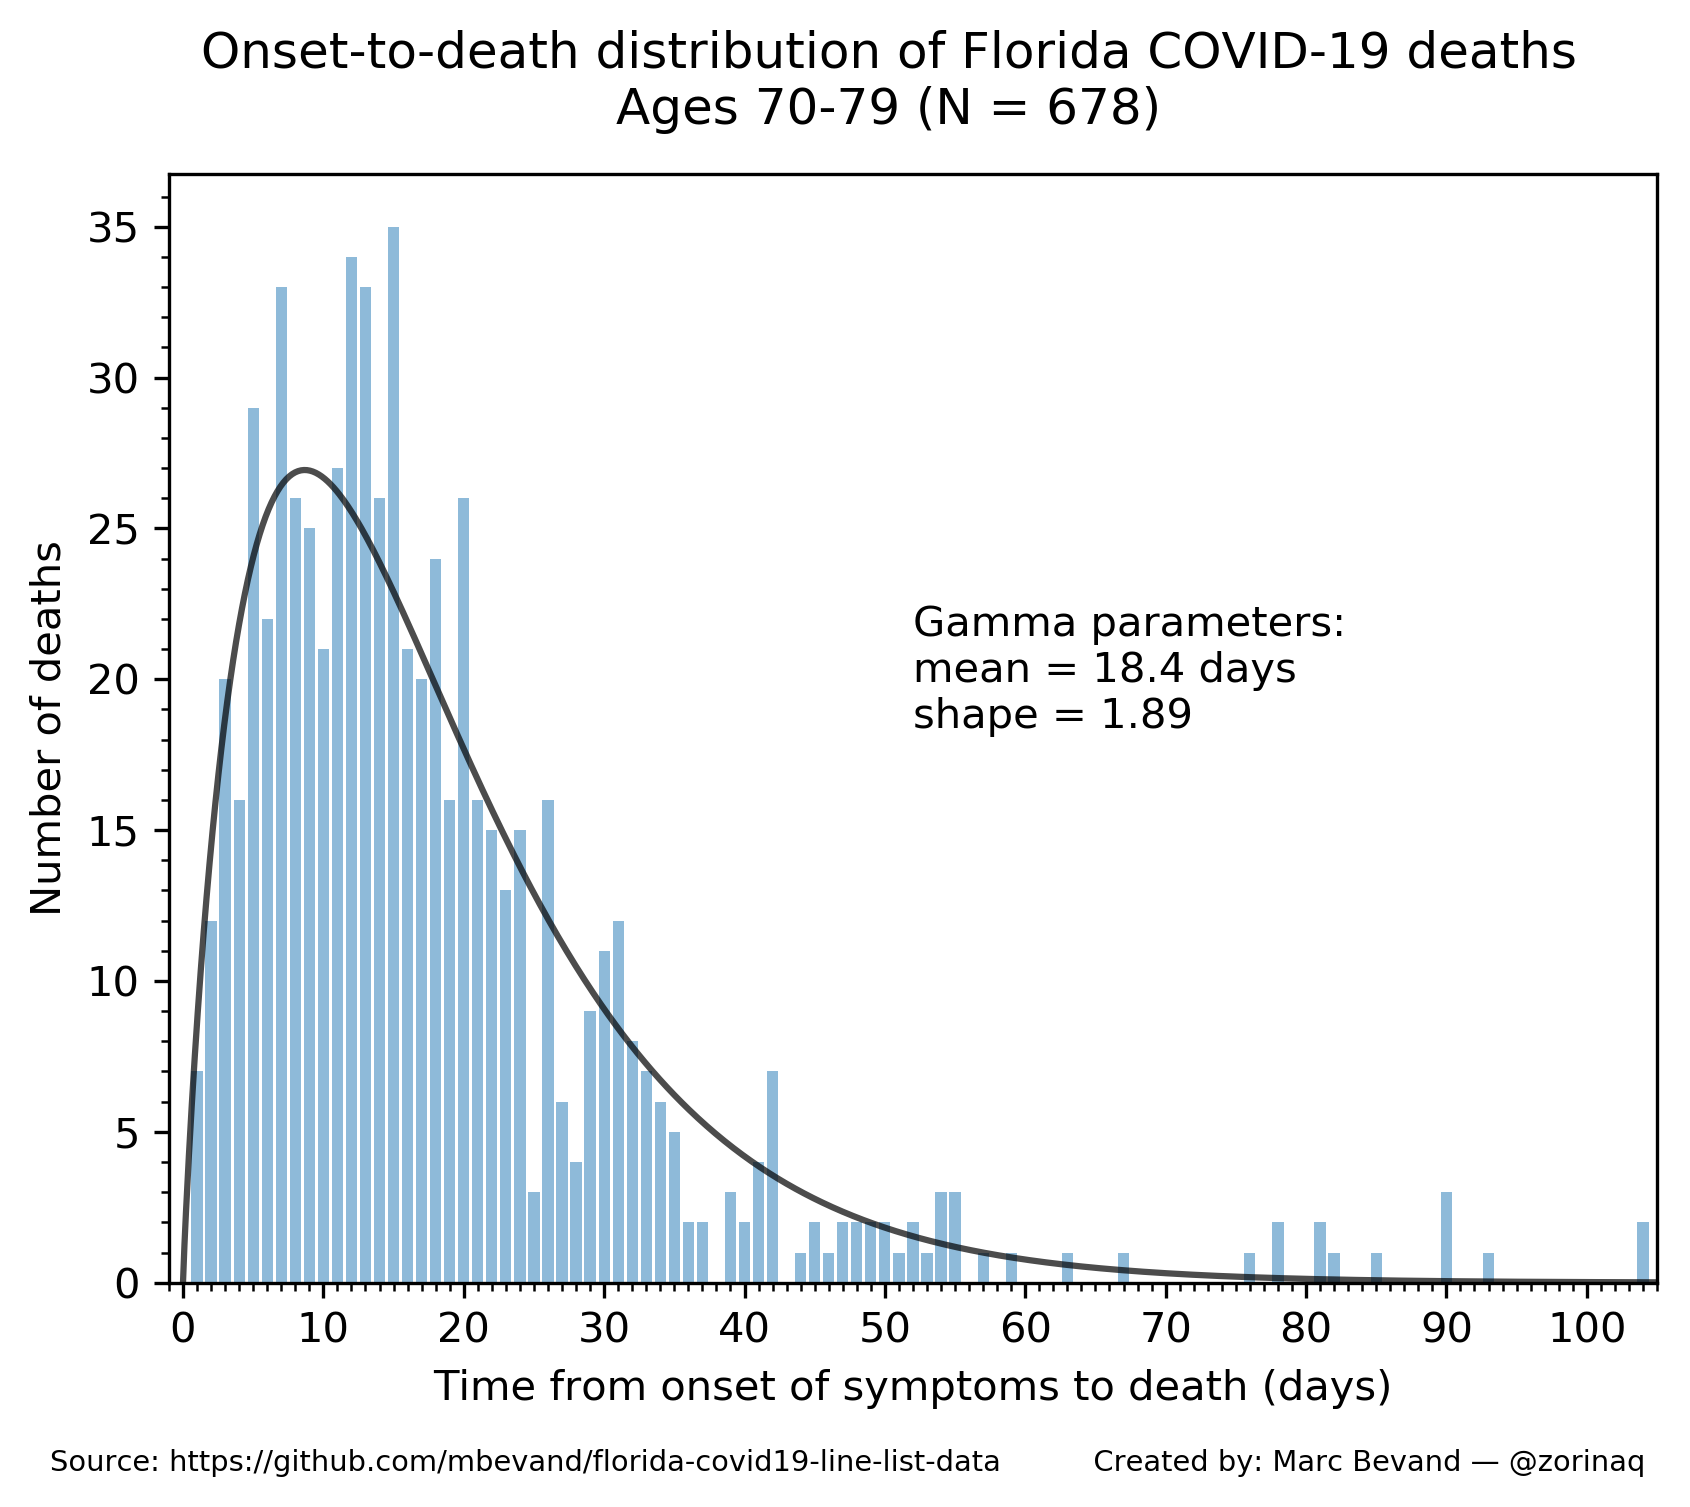
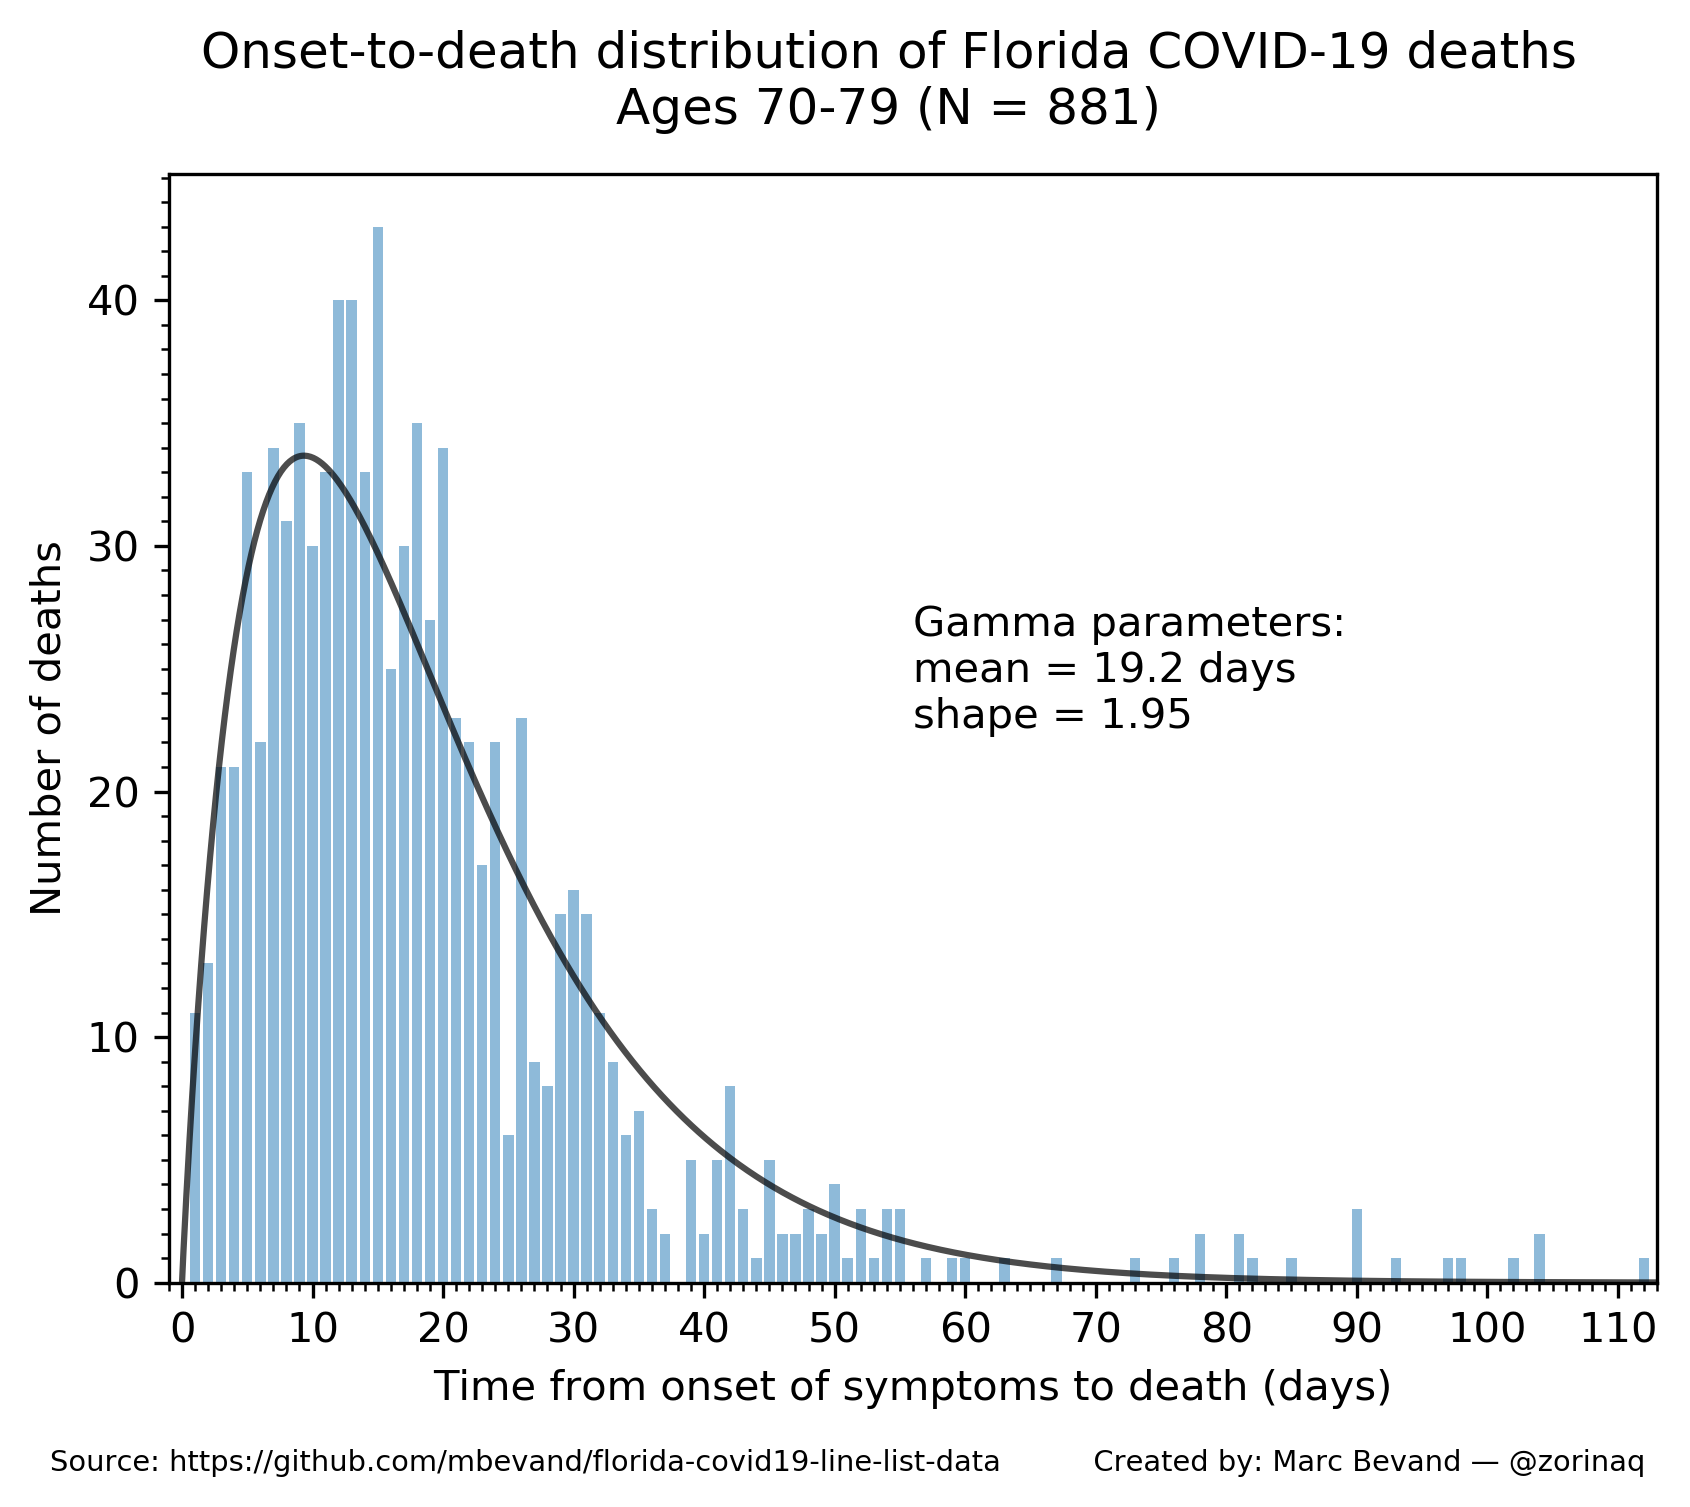
update onset-to-death gamma distibution params

diff --git a/age_stratified_cfr.py b/age_stratified_cfr.py
@@ -217,7 +217,7 @@ def main():
         data[date][b].deaths += 1 if died else 0
         data[date][b].cases += 1
     # Parameters of the Gamma distribution of onset-to-death, calculated by gamma.py
-    mean, shape = 17.8, 1.87
+    mean, shape = 18.5, 1.93
     calc_cfr(data, mean, shape)
     #print_stats(data)
     gen_chart(data, mean, shape)

diff --git a/forecast_deaths.py b/forecast_deaths.py
@@ -24,7 +24,7 @@ csv_deaths_occurred = 'data_deaths/deaths_by_date_of_death.csv'
 deaths_occurred_ignore_days = 10
 
 # Mean time (in days) from onset of symptoms to death, calculated by gamma.py
-o2d = 17.8
+o2d = 18.5
 
 # Number of days to calculate the simple moving average of the chart curves
 avg_days = 7

diff --git a/README.md b/README.md
@@ -2,7 +2,7 @@
 
 *Updated: 30 July 2020*
 
-Authors: Marc Bevand
+Author: Marc Bevand
 
 The Florida Department of Health (FDOH) has an **amazing** dataset here:
 [complete line list of the state's COVID-19 cases and deaths][dataset]. To our
@@ -86,13 +86,13 @@ important that we feed it CFR estimates, not IFR estimates. Infection Fatality
 Ratios take into account *undetected* cases and thus would not be consistent
 with line list data.
 
-Then the script assumes death occurs on average 17.8 days after infection,
+Then the script assumes death occurs on average 18.5 days after infection,
 which is the mean onset-to-death time calculated by `gamma.py`.
 
 Finally, it charts the forecast (`forecast_deaths.png`). The curves are all
 smoothed with a 7-day simple moving average.
 
-The end result is a simple tool that can not only predict deaths up to ~17.8
+The end result is a simple tool that can not only predict deaths up to ~18.5
 days ahead of time, but can also estimate *past* deaths accurately: notice how
 the colored curves in the generated chart follow closely the black curve
 (actual deaths.)
@@ -214,70 +214,74 @@ Parsing data_fdoh/2020-07-23-09-44-13.csv
 Parsing data_fdoh/2020-07-24-09-32-33.csv
 Parsing data_fdoh/2020-07-25-07-38-52.csv
 Parsing data_fdoh/2020-07-26-08-01-29.csv
+Parsing data_fdoh/2020-07-27-11-17-26.csv
+Parsing data_fdoh/2020-07-28-09-08-33.csv
+Parsing data_fdoh/2020-07-29-11-28-29.csv
+Parsing data_fdoh/2020-07-30-12-31-00.csv
 
 Ages 0-29:
-Number of deaths: 24
+Number of deaths: 31
 Gamma distribution params:
-mean = 12.2
-shape = 3.21
+mean = 15.2
+shape = 2.04
 
 Ages 30-39:
-Number of deaths: 51
+Number of deaths: 63
 Gamma distribution params:
-mean = 17.4
-shape = 1.42
+mean = 17.5
+shape = 1.51
 
 Ages 40-49:
-Number of deaths: 87
+Number of deaths: 110
 Gamma distribution params:
-mean = 22.1
-shape = 1.80
+mean = 21.7
+shape = 1.95
 
 Ages 50-59:
-Number of deaths: 189
+Number of deaths: 247
 Gamma distribution params:
-mean = 20.6
-shape = 1.86
+mean = 22.0
+shape = 1.81
 
 Ages 60-69:
-Number of deaths: 402
+Number of deaths: 519
 Gamma distribution params:
-mean = 18.6
-shape = 2.01
+mean = 19.2
+shape = 2.08
 
 Ages 70-79:
-Number of deaths: 678
+Number of deaths: 881
 Gamma distribution params:
-mean = 18.4
-shape = 1.89
+mean = 19.2
+shape = 1.95
 
 Ages 80-89:
-Number of deaths: 773
+Number of deaths: 996
 Gamma distribution params:
-mean = 17.2
-shape = 1.91
+mean = 17.6
+shape = 1.99
 
 Ages 90+:
-Number of deaths: 456
+Number of deaths: 556
 Gamma distribution params:
-mean = 15.8
-shape = 1.84
+mean = 16.2
+shape = 1.92
 
 All ages:
-Number of deaths: 2660
+Number of deaths: 3403
 Gamma distribution params:
-mean = 17.8
-shape = 1.87
+mean = 18.5
+shape = 1.93
 ```
 
-The overall (all ages) mean of 17.8 days is comparable to other published estimates, however our
-distribution is wider (ie. smaller shape parameter of 1.87) because many deaths
+The overall (all ages) mean of 18.5 days is comparable to other published estimates, however our
+distribution is wider (ie. smaller shape parameter of 1.93) because many deaths
 occur in the long tail:
 * mean 17.8 days, shape 4.94 = 0.45<sup>-2</sup>, based on sample of 24 deaths: [Estimates of the severity of coronavirus disease 2019: a model-based analysis][verity]
 * mean 15.1 days, shape 5.1, based on sample of 3 deaths: [Estimating case fatality ratio of COVID-19 from observed cases outside China][althaus]
 
 We believe our distribution parameters are more accurate because
-they are based on a much larger sample of 2660 deaths. The long tail
+they are based on a much larger sample of 3403 deaths. The long tail
 may be the result of improved treatments that can maintain patients
 alive for a longer time.
 
